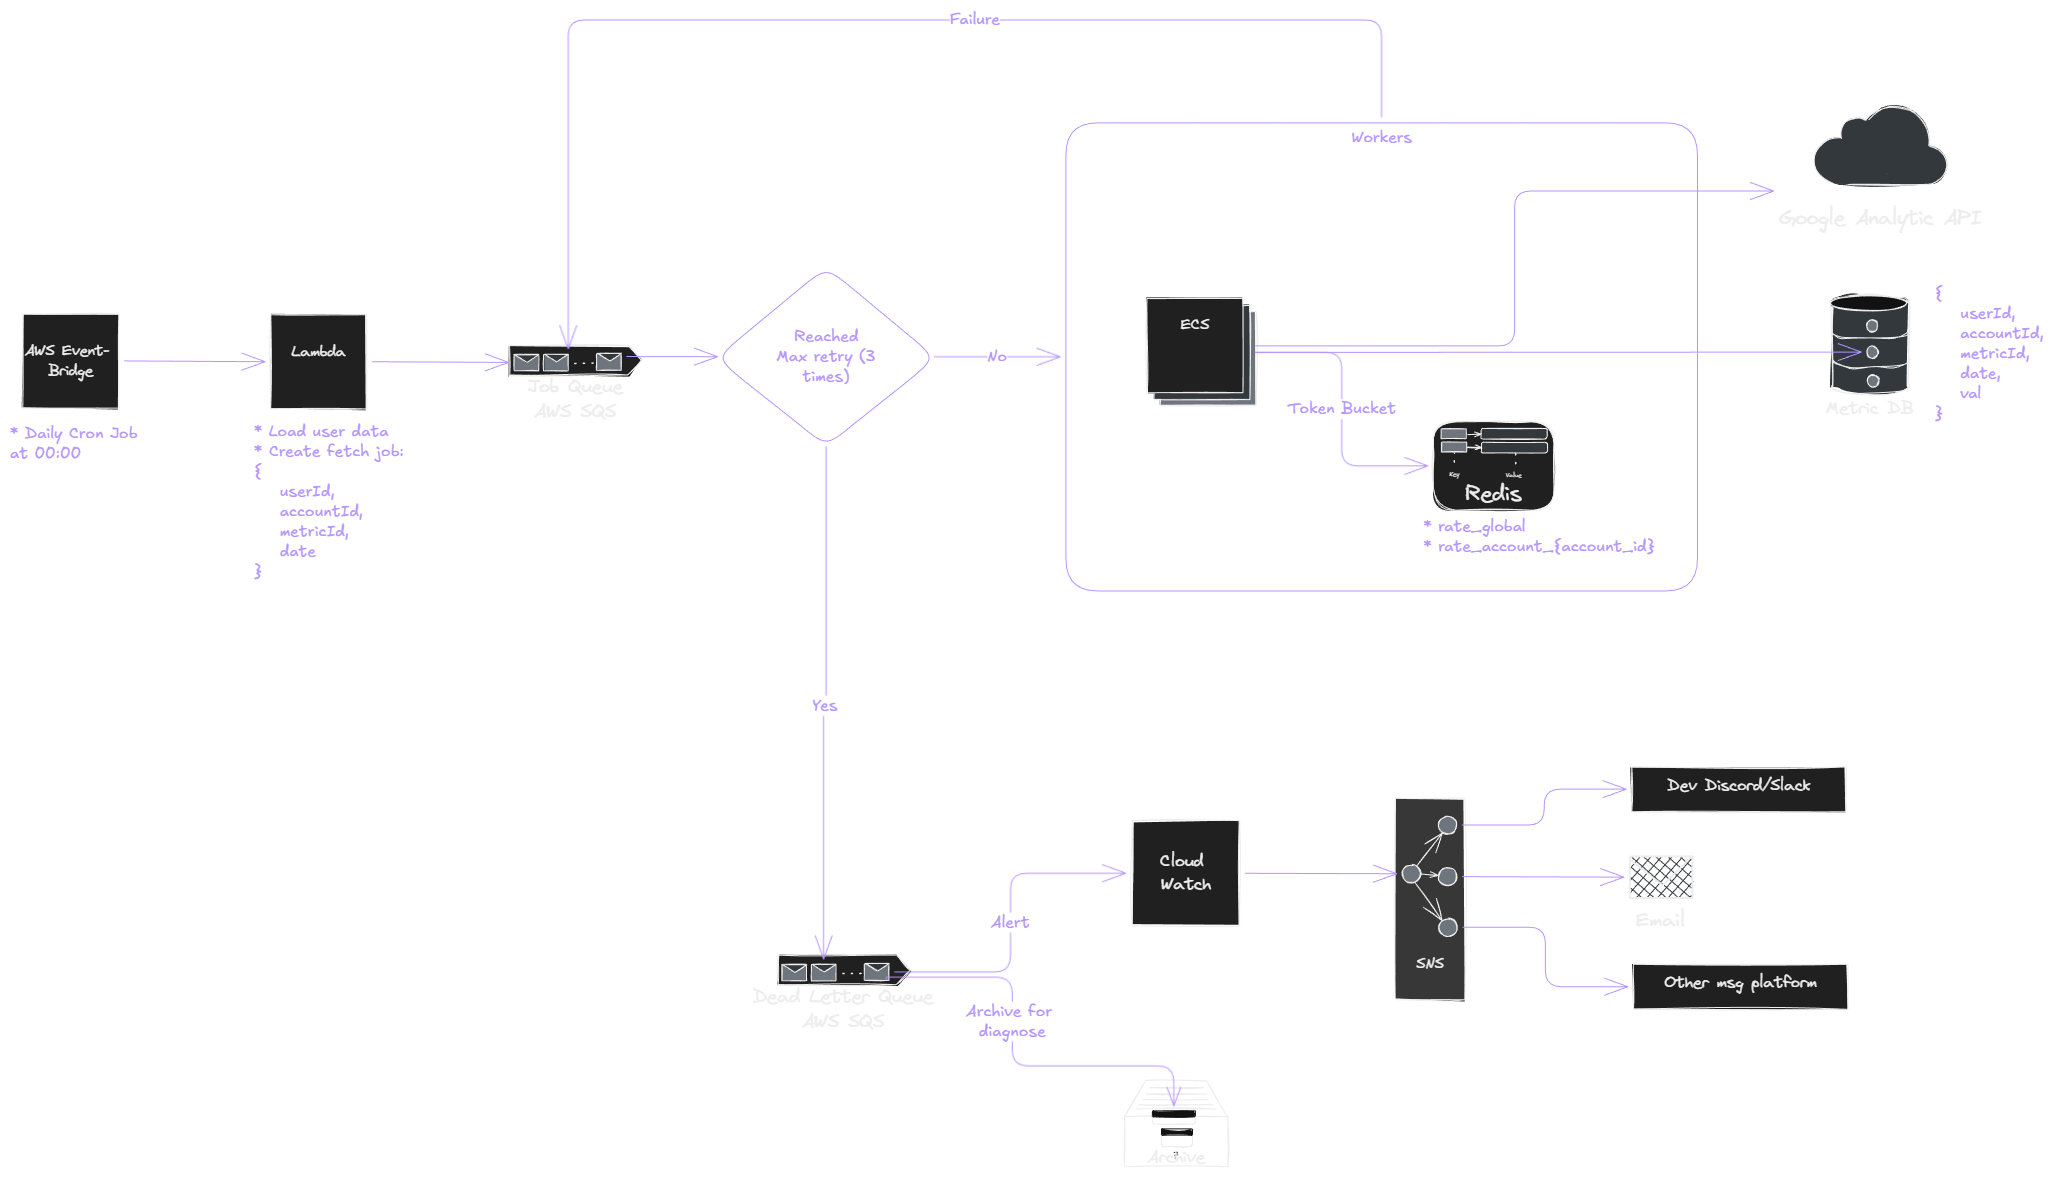
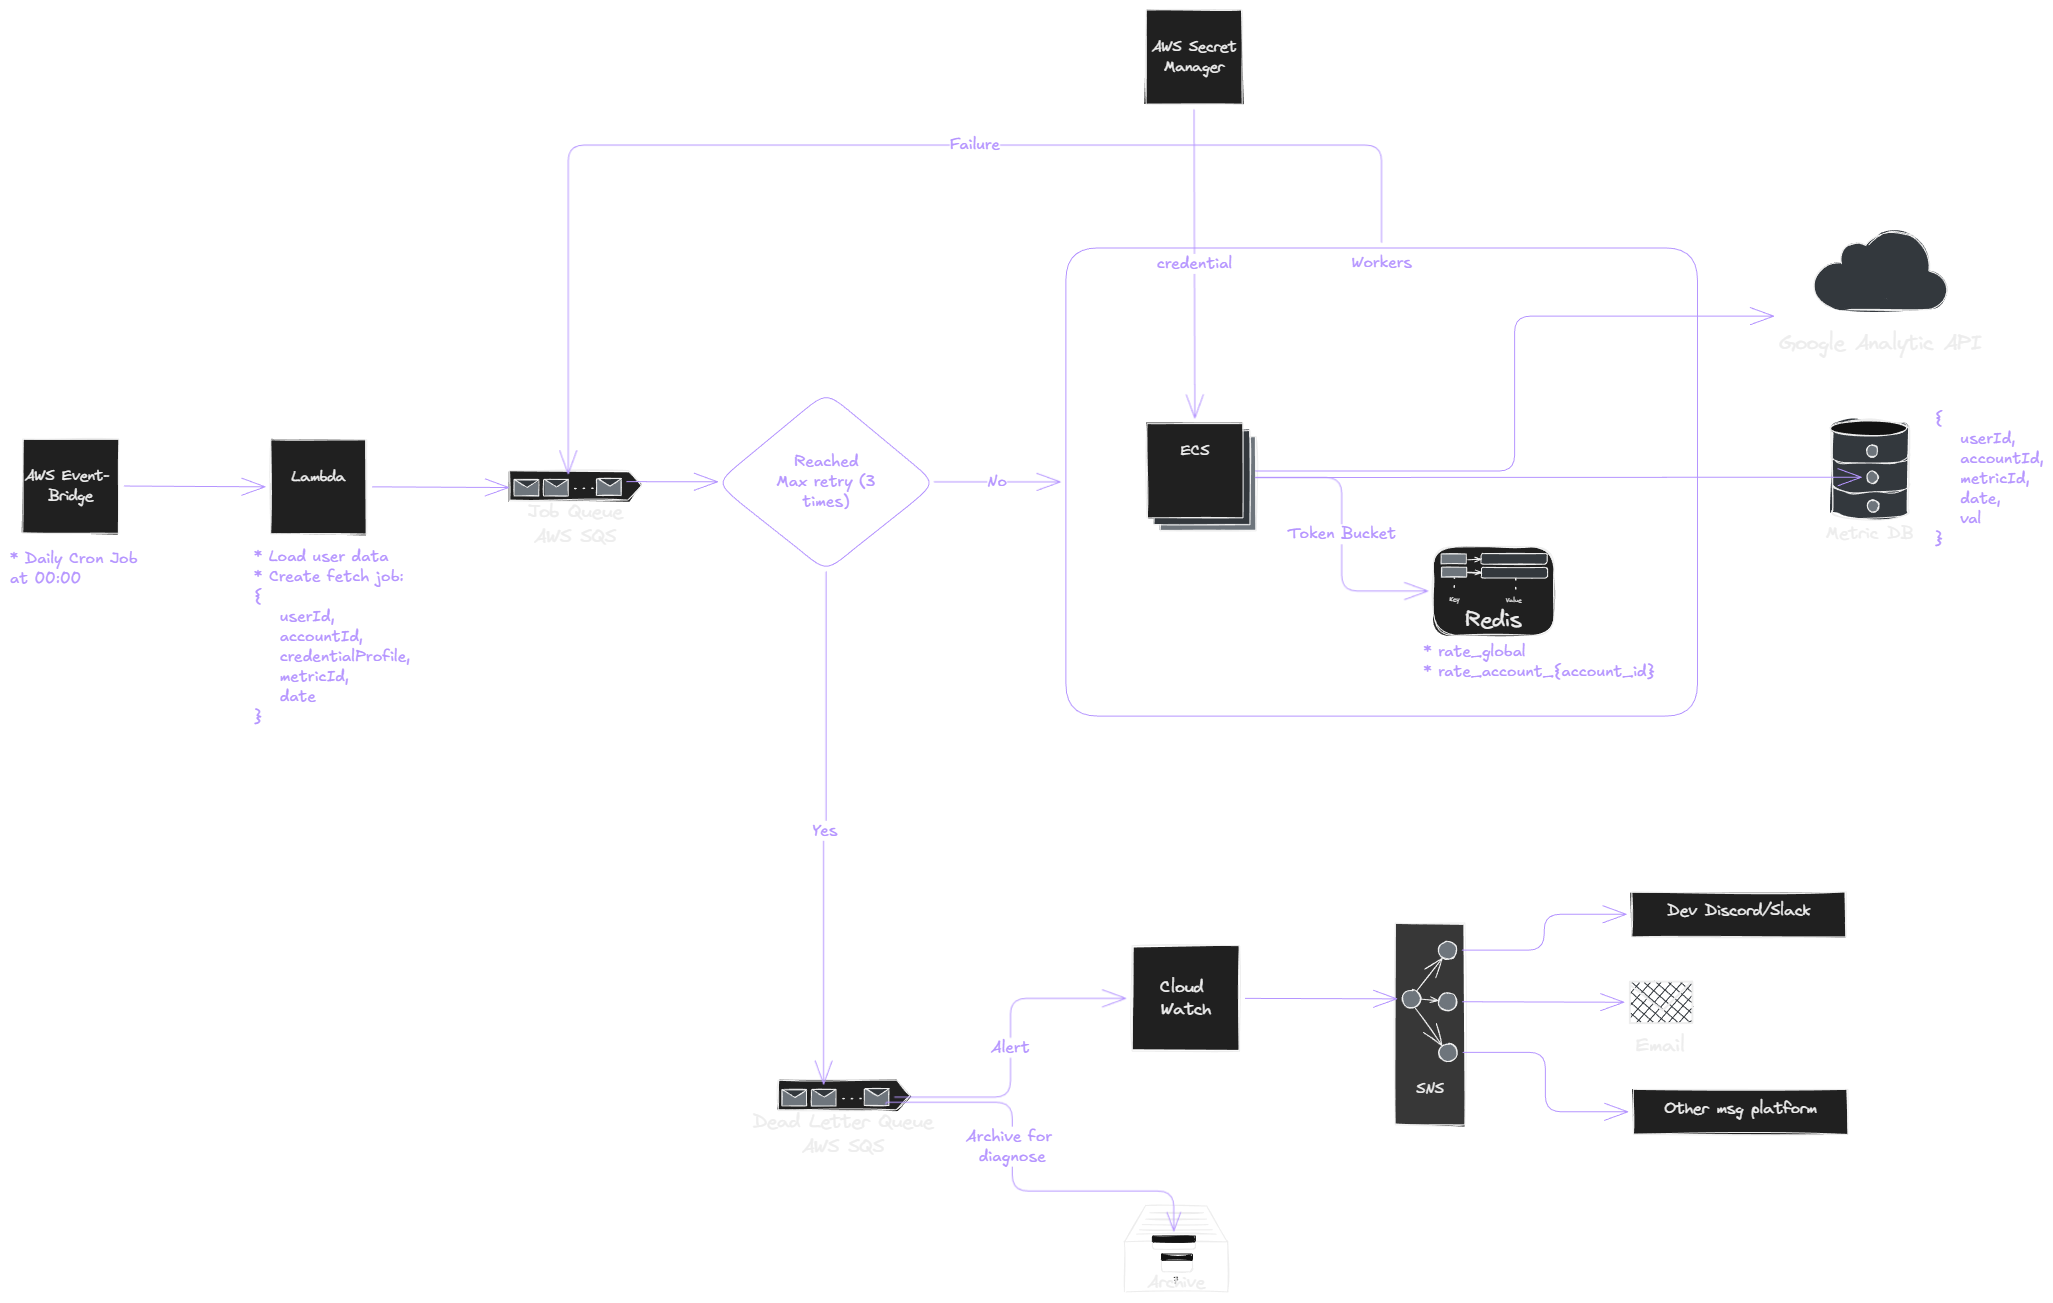
CFG update README

diff --git a/README.md b/README.md
@@ -27,12 +27,12 @@
 
 ## Overview
 
-The system is designed to fetch google analytics metrics for multiple users with multiple accounts. The system is optimized to complete the operation as fast as possible under the given constraints.
+The system is designed to fetch Google Analytics metrics for multiple users with multiple accounts. The system is optimized to complete the operation as fast as possible under the given constraints.
 
 ### Requirements:
 
 - Up to 100 users
-- Each users can have up to 50 accounts
+- Each user can have up to 50 accounts
 - Each account can fetch up to 200 metrics per day
 - Only focus on synchronous fetch API
 - Limits
@@ -44,18 +44,18 @@ The system is designed to fetch google analytics metrics for multiple users with
 
 ## Constraints Analysis
 
-Based on the requirement, the maximum number of fetch API call can be determined as shown below.
+Based on the requirement, the maximum number of fetch API calls can be determined as shown below.
 
 ```
 100 users * 50 accounts * 200 metrics = 1,000,000 metrics/day
 ```
 
-and the rate limits are:
+and the rate limits are
 
 - Per-account limit: 100 calls per hour
 - Global limit: 50,000 calls per hour
 
-from a system-wide perspective, it can be seen that the hard limit is on the global limit. Per-account calls can be parallelized, but it will be eventually capped by the global limit.
+From a system-wide perspective, it can be seen that the hard limit is on the global limit. Per-account calls can be parallelized, but they will be eventually capped by the global limit.
 So, to complete all these operations, the best time-to-complete is
 
 ```
@@ -74,17 +74,19 @@ From the diagram above, the execution flow is summarized below:
 4. The workers consume the jobs and auto-scale accordingly
 5. Inside the workers,
 
-   5.1 Acquire both global and per-account token
+   5.1 Acquire both global and per-account tokens
 
-   5.2 Call Google Analytics API
+   5.2 Get credential
 
-   5.3 Store the result
+   5.3 Call Google Analytics API
 
-   5.4 Retry if needed
+   5.4 Store the result
+
+   5.5 Retry if needed
 
 6. Repeat steps 3-5 until the queue is empty.
 
-Let's go through the diagram from the left to the right in deeper details.
+Let's go through the diagram from the left to the right in deeper detail.
 
 ### AWS EventBridge
 
@@ -92,24 +94,25 @@ First, the fetch event is triggered by a scheduled cron job using [AWS Event Bri
 
 ### Fetch Job Lambda
 
-Second, the fetch job is constructed by a [lambda function](https://aws.amazon.com/lambda/). It accesses the database to form a metric fetching job. An example job payload should look like this.
+Second, the fetch job is constructed by a [lambda function](https://aws.amazon.com/lambda/). It accesses the database to form a metric-fetching job. An example job payload should look like this.
 
 ```json
 {
     userId,
     accountId,
+    credentialProfile,
     metricId,
     date
 }
 ```
 
-The structure means one job per metric. This enable fine-grained retries and maximal parallelism. This introduces a slight overhead from duplicated `userId` and `accountId`, but it is acceptable due to rate limit constraints.
+The structure means one job per metric. This enables fine-grained retries and maximal parallelism. This introduces a slight overhead from duplicated `userId`, `accountId`, and `credentialProfile`, but it is acceptable due to rate limit constraints.
 
 Once the job payload is ready, it is pushed into a job queue.
 
 ### Job Queue
 
-Job queue stores fetch jobs, waiting to be consumed by fetch workers. The design is not only enable decoupling job creation from the execution, but also enable retries operation.
+The Job queue stores fetch jobs, waiting to be consumed by fetch workers. The design not only enables decoupling job creation from the execution but also enables retry operations.
 For simplicity, [AWS SQS](https://aws.amazon.com/sqs/) is used for this component.
 
 ### Fetch Workers
@@ -118,10 +121,13 @@ The workers are essentially compute nodes that consume jobs from the job queue a
 
 - Consume jobs from the queue
 - Enforce rate limits
+- Get credentials
 - Fetch metric via Google Analytics API
 - Store results
 
-Since we want to maximum the throughput of the system, ECS fargate is used for this component because of its ease of auto-scaling. To further emphasize the goodness of ECS, it allows better control over concurrency. For example, we can setup a fleet of containers using [Little's law](https://en.wikipedia.org/wiki/Little%27s_law) such that
+For security reasons, credentials must be fetched either at deployment time as environment variables or at runtime by the application. In both cases, the credentials must be stored and managed securely. Therefore, [AWS Secret Manager](https://aws.amazon.com/secrets-manager/) is chosen as the solution for securely storing and accessing these credentials.
+
+Since we want to maximize the throughput of the system, [ECS Fargate](https://docs.aws.amazon.com/AmazonECS/latest/developerguide/AWS_Fargate.html) is used for this component because of its ease of auto-scaling. To further emphasize the goodness of ECS, it allows better control over concurrency. For example, we can set up a fleet of containers using [Little's law](https://en.wikipedia.org/wiki/Little%27s_law) such that
 
 ```
 #containers = global_API_rate_limit [call/s] * average_API_call_latency [s]
@@ -134,9 +140,9 @@ Moreover, the auto-scaling rules can be set to be based on the job queue depth.
 
 #### Rate Limits
 
-The rate limiting mechanism relies on token bucket rate limiting. It basically a virtual token for each requests that will be refilled under a certain rate. [Redis](https://redis.io/) is a perfect solution for this since it can ensure atomicity under concurrent operations.
+The rate-limiting mechanism relies on token bucket rate limiting. It is basically a virtual token for each request that will be refilled under a certain rate. [Redis](https://redis.io/) is a perfect solution for this since it can ensure atomicity under concurrent operations.
 
-The token bucket can be implemented as a key-value cache as follow.
+The token bucket can be implemented as a key-value cache as follows.
 
 ```
 Key: rate_global
@@ -152,9 +158,9 @@ Val: {
 }
 ```
 
-For simplicity, a "lazy-refill' is used as the refilling strategy. Essentially, the token will be both taken and update upon read. The mechanism is as follow:
+For simplicity, a "lazy-refill' is used as the refilling strategy. Essentially, the token will be both taken and updated upon read. The mechanism is as follows:
 
-1. A worker check the buckets
+1. A worker checks the buckets
 2. Calculate the new token value for each bucket as shown in the pseudo code below:
 
 ```python
@@ -174,16 +180,16 @@ new_tokens = min(capacity, tokens + elapsed * refill_rate)
 > For per-account bucket,
 > `refill_rate` = 100 / (60 \* 60) ≈ 0.0278 tokens/sec
 
-3. If there is available token, take the token and update the token cache.
+3. If there is an available token, take the token and update the token cache.
 4. Otherwise, just update the token cache.
 
 After this, three things can happen:
 
-1. If a worker fails to acquire a token, the job is sent back to the queue for futher retries without incrementing the retry counter.
-2. If the worker successfully acquire a token, the worker proceed with task.
-3. If the worker successfully acquire a token, the worker proceeds with task, but it fails from any reasons, the job is sent back to the queue for futher retries.
+1. If a worker fails to acquire a token, the job is sent back to the queue for further retries without incrementing the retry counter.
+2. If the worker successfully acquires a token, the worker proceeds with the task.
+3. If the worker successfully acquires a token, the worker proceeds with the task, but it fails for any reasons, the job is sent back to the queue for further retries.
 
-It can be seen that there are two main flows: continue and retry. Let's discuss them in order
+It can be seen that there are two main flows: continue and retry. Let's discuss them in order.
 
 ### Fetch and Store Google Analytics
 
@@ -195,18 +201,16 @@ userId | accountId | metricId | date | value
 
 ### Retry Strategy
 
-When there is a fail operation (fail to acquire a token or failure on the request), that specific job will be pushed onto the job queue again and increment the retry counter. The retry can be done up to 3 times. To prevent the the surge on retry, an exponential backoff is used to delay repeated failing task. If there is a job that exceeds the allowed retry quota, that job will be pushed into a dead letter queue.
+When there is a failed operation (failure to acquire a token or failure on the request), that specific job will be pushed onto the job queue again and increment the retry counter. The retry can be done up to 3 times. To prevent the surge on retry, an exponential backoff is used to delay repeated failing tasks. If there is a job that exceeds the allowed retry quota, that job will be pushed into a dead letter queue.
 
 #### Dead Letter Queue
 
-Dead letter queue is implemented using a configured [AWS SQS](https://aws.amazon.com/sqs/). This queue stores problematic fetch job for several purposes: alert, diagnosis, and more.
+Dead letter queue is implemented using a configured [AWS SQS](https://aws.amazon.com/sqs/). This queue stores problematic fetch jobs for several purposes: alerts, diagnoses, and more.
 
-Dead letters will be store in an archive, and [CloudWatch](https://aws.amazon.com/cloudwatch/) will alert the devs by sending the message to the configured message platform (Discord, Slack, Email, etcs.).
+Dead letters will be stored in an archive, and [CloudWatch](https://aws.amazon.com/cloudwatch/) will alert the devs by sending the message to the configured message platform (Discord, Slack, email, etc.).
 
 ## Future Improvements
 
-- Store Google Analytics API keys in [AWS Secret Manager](https://aws.amazon.com/secrets-manager/)
+- If possible, use batch/async metric fetching to reduce total calls.
 
-* If possible, use batch/async metric fetching to reduce total calls.
-
-* Per-user fairness for more evenly-distributed per-user workload.
+- Per-user fairness for more evenly distributed per-user workload.
